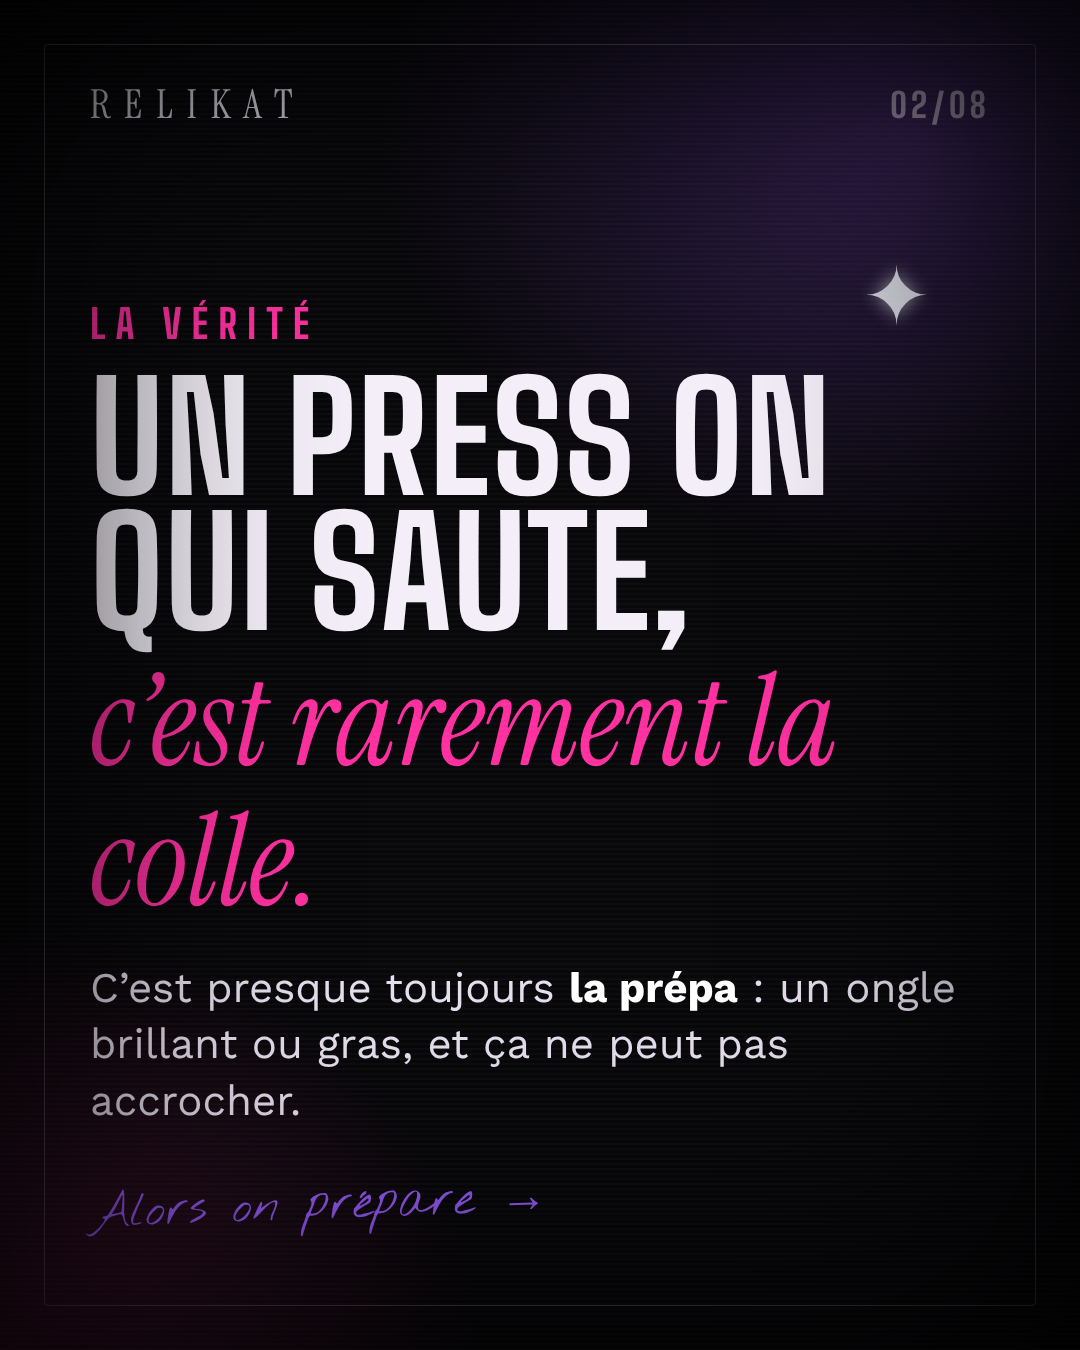
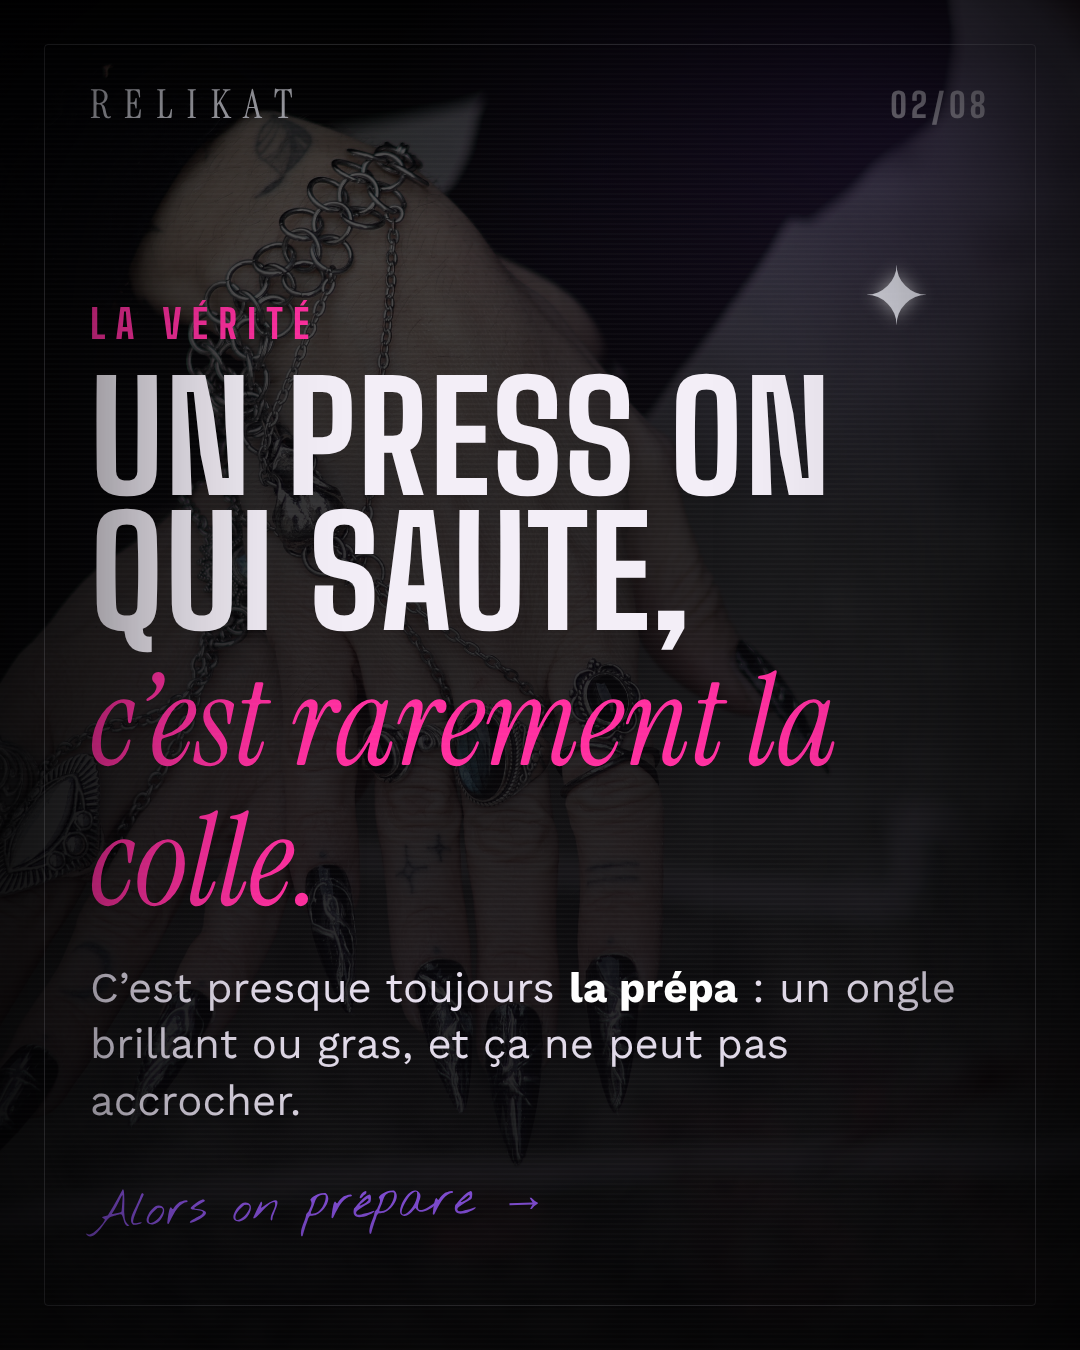
Carrousel RELIKAT : photos en fond en transparence
Claude-Session: https://claude.ai/code/session_0146tJhNhDf1eUKpWvX2gybg

diff --git a/relikat-carrousel-prepa/carrousel.html b/relikat-carrousel-prepa/carrousel.html
@@ -36,6 +36,13 @@ h1 em{font-family:ISerif;font-weight:400;font-style:normal;text-transform:none;c
 .nail{position:absolute;right:70px;top:170px;width:330px;opacity:.95}
 .list{margin-top:40px;font-size:40px;line-height:1.6;color:#e6dfee}
 .list div::before{content:"✦  ";color:var(--fu)}
+.bg{position:absolute;inset:0;background-size:cover;filter:saturate(.6) brightness(.8) contrast(1.1)}
+.shade{position:absolute;inset:0;background:
+ linear-gradient(180deg,rgba(8,7,10,.45) 0%,rgba(8,7,10,.1) 28%,rgba(8,7,10,.75) 58%,rgba(8,7,10,.93) 100%),
+ radial-gradient(900px 700px at 85% 10%,rgba(155,92,255,.30),transparent 60%),
+ radial-gradient(800px 700px at 0% 100%,rgba(255,47,160,.25),transparent 60%)}
+.full .shade{background:linear-gradient(180deg,rgba(8,7,10,.45),rgba(8,7,10,.78) 35%,rgba(8,7,10,.88)),
+ radial-gradient(900px 700px at 85% 10%,rgba(155,92,255,.30),transparent 60%)}
 </style></head><body>
 
 <!-- SVG nail reused -->
@@ -46,44 +53,37 @@ h1 em{font-family:ISerif;font-weight:400;font-style:normal;text-transform:none;c
 </defs></svg>
 
 <!-- 1 COVER -->
-<section class="s" id="s1"><div class="frame"></div><div class="brand">RELIKAT</div><div class="pg">01/08</div>
+<section class="s" id="s1"><div class="bg" style="background-image:url(p-mains-v.png);background-position:center 30%"></div><div class="shade"></div><div class="frame"></div><div class="brand">RELIKAT</div><div class="pg">01/08</div>
  <span class="star" style="top:230px;left:120px;font-size:60px">✦</span><span class="star" style="top:330px;left:220px;font-size:30px">✦</span>
- <svg class="nail" viewBox="0 0 440 420" style="width:400px;right:90px;top:130px">
-  <use href="#stil" x="0" y="40" width="130" height="380"/><use href="#stil" x="150" y="0" width="130" height="420"/><use href="#stil" x="300" y="50" width="130" height="370"/></svg>
- <div class="content"><div class="kicker">Tes press on tiennent 2 jours ?</div>
+  <div class="content"><div class="kicker">Tes press on tiennent 2 jours ?</div>
  <h1>Au lieu de<br>2 semaines…<br><em>ce post est pour toi</em></h1>
  <div class="txt">5 étapes de prépa pour qu’ils tiennent <b>vraiment</b>.</div></div>
  <div class="swipe">SWIPE →</div></section>
 
 <!-- 2 POURQUOI -->
-<section class="s" id="s2"><div class="frame"></div><div class="brand">RELIKAT</div><div class="pg">02/08</div>
+<section class="s full" id="s2"><div class="bg" style="background-image:url(p-mains-h.png);background-position:60% center"></div><div class="shade"></div><div class="frame"></div><div class="brand">RELIKAT</div><div class="pg">02/08</div>
  <span class="star" style="top:250px;right:150px;font-size:80px">✦</span>
  <div class="content" style="bottom:auto;top:300px"><div class="kicker">La vérité</div>
  <h1>Un press on<br>qui saute,<br><em>c’est rarement la colle.</em></h1>
  <div class="txt">C’est presque toujours <b>la prépa</b> : un ongle brillant ou gras, et ça ne peut pas accrocher.</div>
  <div class="hand">Alors on prépare →</div></div></section>
-<section class="s" id="s3"><div class="frame"></div><div class="brand">RELIKAT</div><div class="pg">03/08</div><div class="num">1</div>
- <svg class="nail" viewBox="0 0 200 420" style="width:150px;left:110px;top:210px"><use href="#stil"/></svg>
- <div class="content"><div class="kicker">Étape 1</div><h1>Matifie<br><em>tes ongles</em></h1>
+<section class="s" id="s3"><div class="bg" style="background-image:url(p-boite-poste.jpg);background-position:center 20%"></div><div class="shade"></div><div class="frame"></div><div class="brand">RELIKAT</div><div class="pg">03/08</div><div class="num">1</div>
+  <div class="content"><div class="kicker">Étape 1</div><h1>Matifie<br><em>tes ongles</em></h1>
  <div class="txt">Tu dois <b>absolument</b> matifier tes ongles avec un buffer. On enlève juste la brillance.</div></div></section>
-<section class="s" id="s4"><div class="frame"></div><div class="brand">RELIKAT</div><div class="pg">04/08</div><div class="num">2</div>
- <svg class="nail" viewBox="0 0 200 420" style="width:150px;left:110px;top:210px"><use href="#stil"/></svg>
- <div class="content"><div class="kicker">Étape 2</div><h1>Repousse<br><em>les cuticules</em></h1>
+<section class="s" id="s4"><div class="bg" style="background-image:url(p-mains-h.png);background-position:78% 70%"></div><div class="shade"></div><div class="frame"></div><div class="brand">RELIKAT</div><div class="pg">04/08</div><div class="num">2</div>
+  <div class="content"><div class="kicker">Étape 2</div><h1>Repousse<br><em>les cuticules</em></h1>
  <div class="txt">Avec un bâtonnet, tu viens retirer <b>la peau qui est collée sur ton ongle</b>.</div></div></section>
-<section class="s" id="s5"><div class="frame"></div><div class="brand">RELIKAT</div><div class="pg">05/08</div><div class="num">3</div>
- <svg class="nail" viewBox="0 0 200 420" style="width:150px;left:110px;top:210px"><use href="#stil"/></svg>
- <div class="content"><div class="kicker">Étape 3</div><h1>Nettoie<br><em>la plaque de l’ongle</em></h1>
+<section class="s" id="s5"><div class="bg" style="background-image:url(p-boite.jpg);background-position:center 40%"></div><div class="shade"></div><div class="frame"></div><div class="brand">RELIKAT</div><div class="pg">05/08</div><div class="num">3</div>
+  <div class="content"><div class="kicker">Étape 3</div><h1>Nettoie<br><em>la plaque de l’ongle</em></h1>
  <div class="txt">Tu viens prendre une <b>lingette d’alcool</b> et tu la passes sur chaque ongle.</div></div></section>
-<section class="s" id="s6"><div class="frame"></div><div class="brand">RELIKAT</div><div class="pg">06/08</div><div class="num">4</div>
- <svg class="nail" viewBox="0 0 200 420" style="width:150px;left:110px;top:210px"><use href="#stil"/></svg>
- <div class="content"><div class="kicker">Étape 4 · Bonus</div><h1>Lingette<br><em>sous le press on</em></h1>
+<section class="s" id="s6"><div class="bg" style="background-image:url(p-boite-poste.jpg);background-position:center 60%"></div><div class="shade"></div><div class="frame"></div><div class="brand">RELIKAT</div><div class="pg">06/08</div><div class="num">4</div>
+  <div class="content"><div class="kicker">Étape 4 · Bonus</div><h1>Lingette<br><em>sous le press on</em></h1>
  <div class="txt">Tu viens passer aussi un petit coup de lingette <b>sous la capsule</b>, pour qu’elle soit propre des deux côtés.</div><div class="hand">le petit détail qui change tout ♡</div></div></section>
-<section class="s" id="s7"><div class="frame"></div><div class="brand">RELIKAT</div><div class="pg">07/08</div><div class="num">5</div>
- <svg class="nail" viewBox="0 0 200 420" style="width:150px;left:110px;top:210px"><use href="#stil"/></svg>
- <div class="content"><div class="kicker">Étape 5</div><h1>Gel pad<br><em>à ta taille</em></h1>
+<section class="s" id="s7"><div class="bg" style="background-image:url(p-boite.jpg);background-position:center 35%"></div><div class="shade"></div><div class="frame"></div><div class="brand">RELIKAT</div><div class="pg">07/08</div><div class="num">5</div>
+  <div class="content"><div class="kicker">Étape 5</div><h1>Gel pad<br><em>à ta taille</em></h1>
  <div class="txt">Tu prends ton gel pad et tu choisis <b>la bonne taille pour ton ongle</b>. Ensuite, place à la pose.</div></div></section>
 <!-- 8 CTA -->
-<section class="s" id="s8"><div class="frame"></div><div class="brand">RELIKAT</div><div class="pg">08/08</div>
+<section class="s full" id="s8"><div class="bg" style="background-image:url(p-portrait.png);background-position:center 25%"></div><div class="shade"></div><div class="frame"></div><div class="brand">RELIKAT</div><div class="pg">08/08</div>
  <span class="star" style="top:230px;left:130px;font-size:70px">✦</span><span class="star" style="top:340px;right:180px;font-size:40px">✦</span>
  <div class="content" style="bottom:auto;top:340px"><div class="kicker">Récap</div>
  <h1>Prête<br><em>pour la pose.</em></h1>
